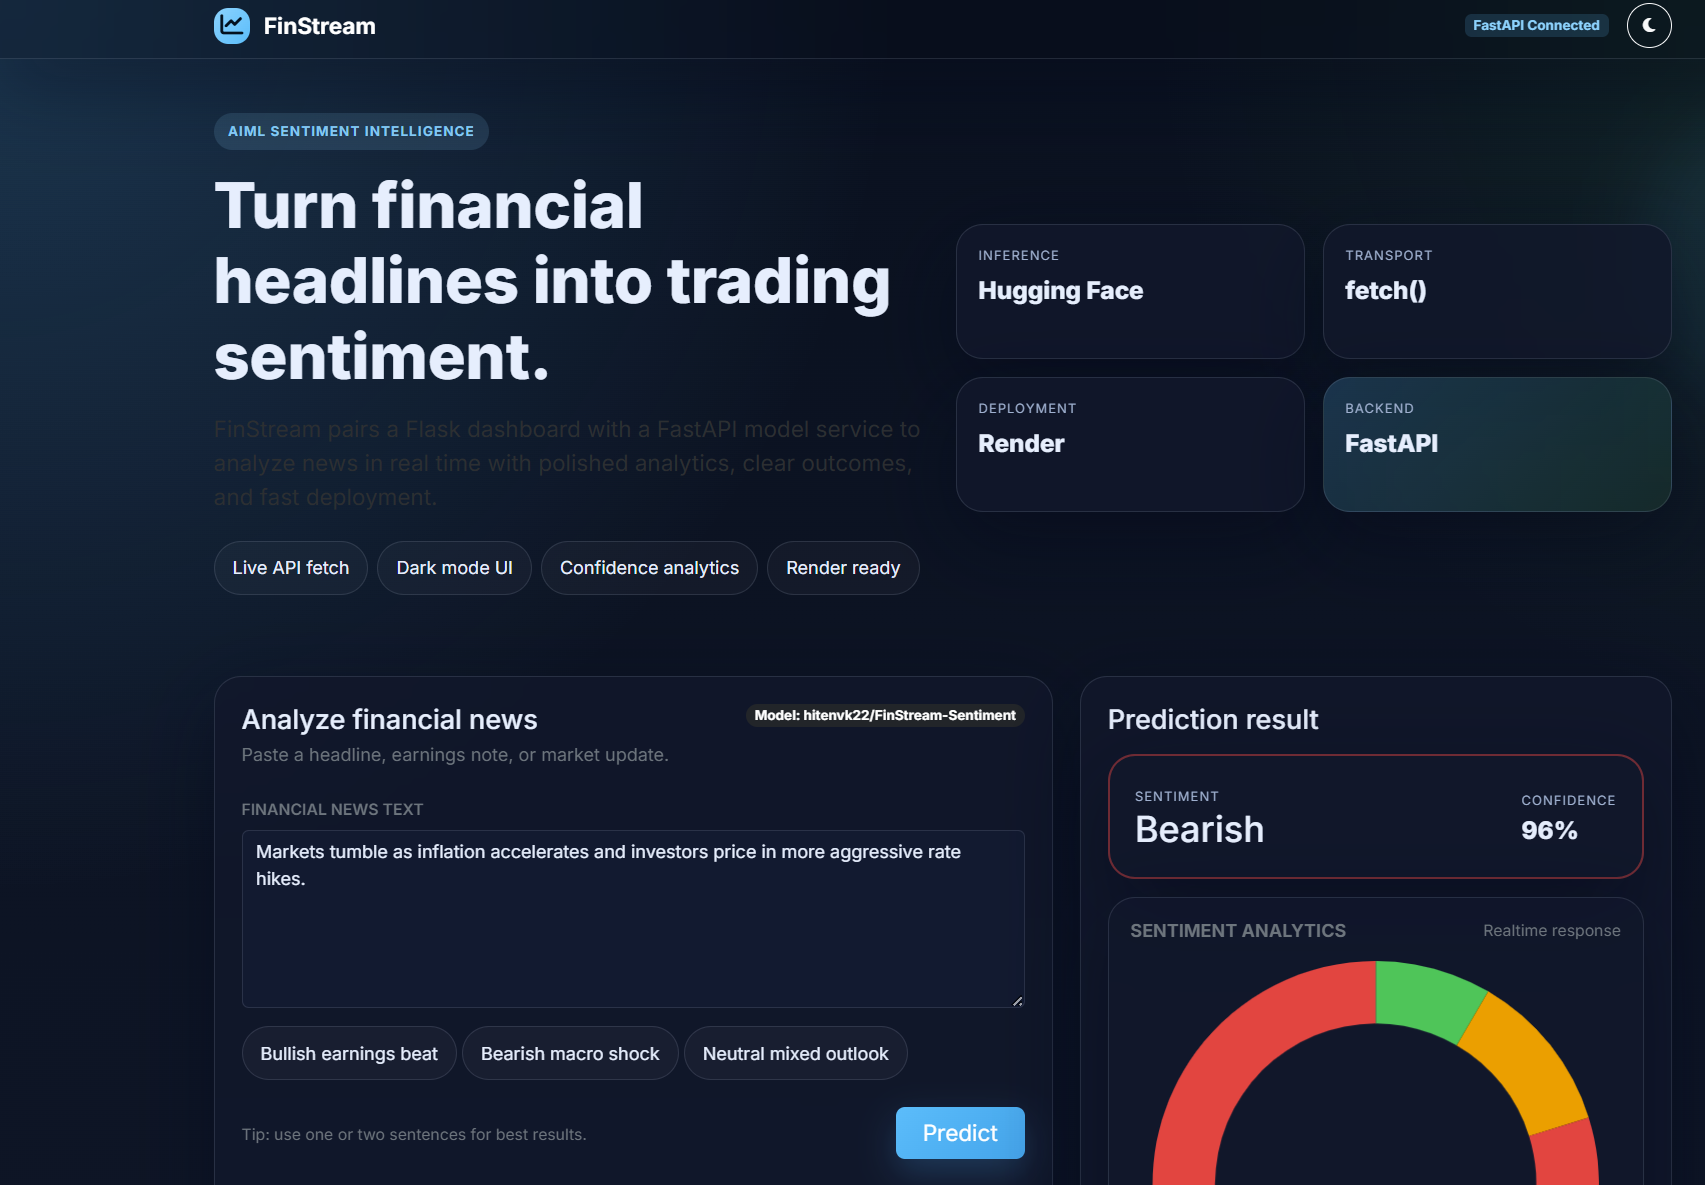
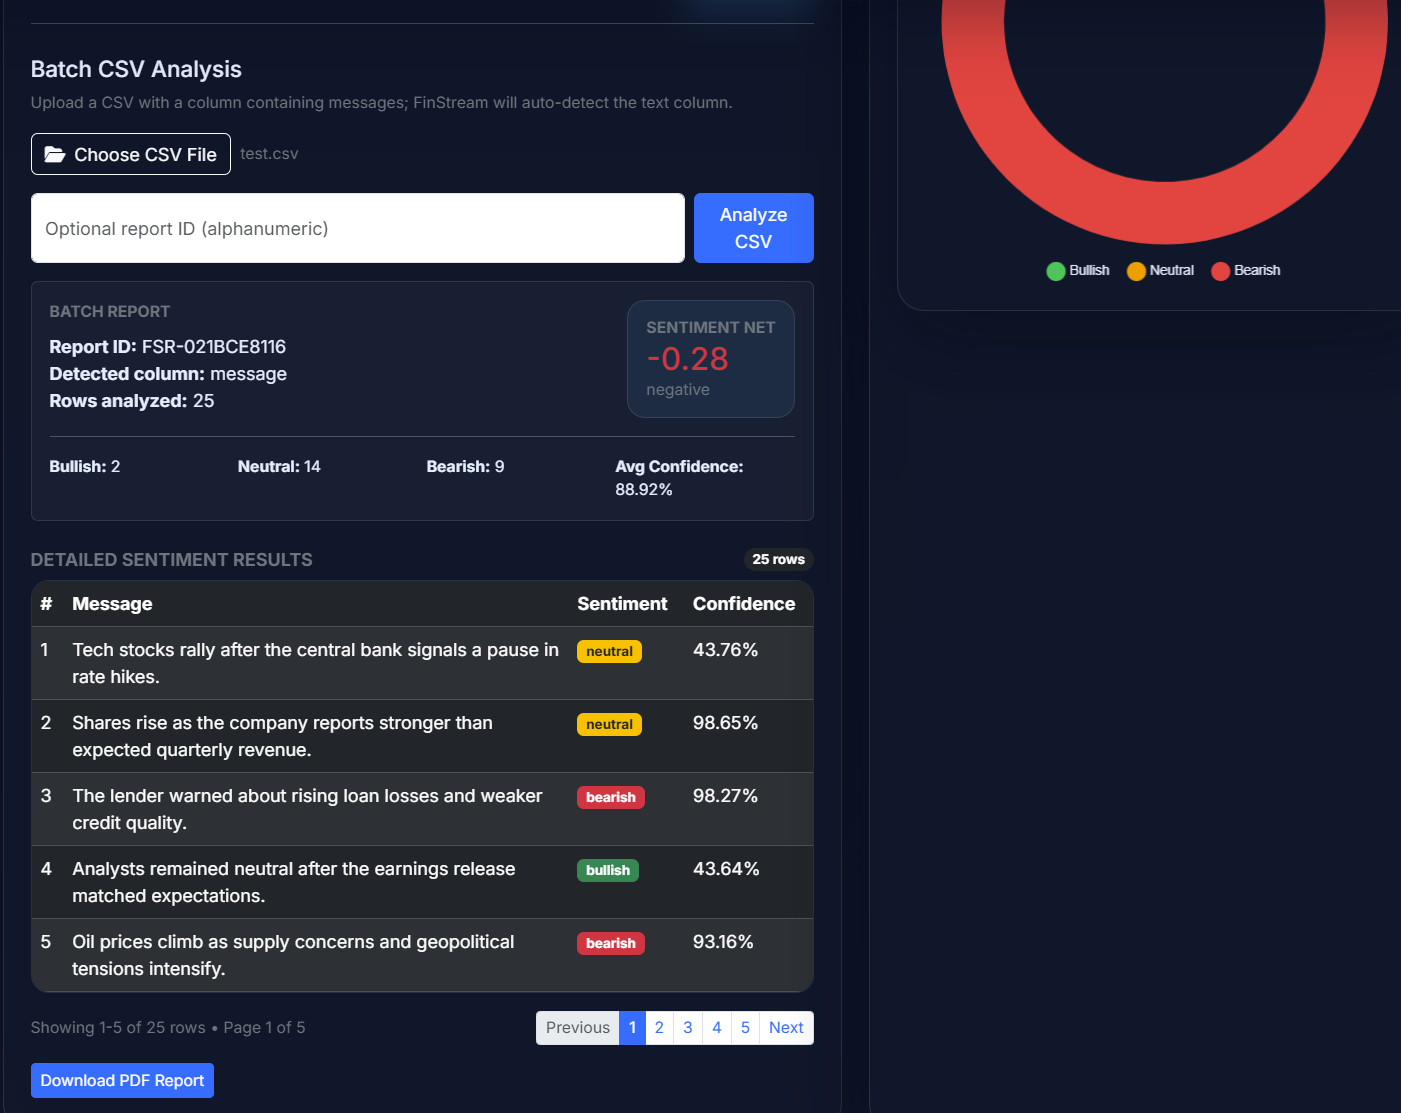
Update README with new screenshots and deploy blueprint

diff --git a/README.md b/README.md
@@ -102,6 +102,18 @@ This view shows the main sentiment form, the live FastAPI-connected prediction r
 
 This view is used for CSV upload testing, batch sentiment processing, report ID generation, and PDF report download. It demonstrates the batch workflow for message-wise sentiment analysis and sentiment net summary reporting.
 
+### Model Evaluation Snapshot
+
+![FinStream classification report screenshot](docs/screenshots/model_classification_metrics.png)
+
+This snapshot captures a notebook test-set result with 83.36% accuracy and a full classification report for bullish, neutral, and bearish labels.
+
+### Training History Snapshot
+
+![FinStream training history graph](docs/screenshots/model_convergence_graph.png)
+
+This plot shows training loss trending downward, validation loss stabilizing, and validation F1 / precision / recall converging across epochs.
+
 ## GIF Demo
 
 Add a short walkthrough GIF and embed it below:
@@ -219,46 +231,6 @@ Recommended workflow:
 - Run backend and frontend in separate integrated terminals.
 - Use notebook mode for evaluation experiments.
 
-## Render Deployment Guide
-
-Deploy with the root [render.yaml](render.yaml) blueprint for a one-click multi-service setup.
-
-### Blueprint deployment
-
-1. Connect your Git repository in Render.
-2. Choose "Blueprint" deployment and point Render to `render.yaml` at the repo root.
-3. Render creates both the backend and frontend web services.
-4. Add your secret `HF_TOKEN` when prompted during blueprint creation.
-
-### Services created by the blueprint
-
-### 1. Backend service (FastAPI)
-- Root directory: `backend`
-- Build command: `pip install -r requirements.txt`
-- Start command: `uvicorn backend.main:app --host 0.0.0.0 --port $PORT`
-- Health check: `/health`
-
-### 2. Frontend service (Flask)
-- Root directory: `frontend`
-- Build command: `pip install -r requirements.txt`
-- Start command: `gunicorn app:app --bind 0.0.0.0:$PORT`
-- Health check: `/health`
-- The blueprint injects `FASTAPI_BASE_URL` from the backend service host.
-
-Optional backend environment variables:
-- `HF_TOKEN`
-- `MODEL_NAME`
-- `LOG_LEVEL`
-- `CORS_ORIGINS`
-
-Local environment setup is described in [.env.example](.env.example).
-
-## API Documentation
-
-FastAPI auto-generates docs:
-- Swagger UI: `http://localhost:8000/docs`
-- ReDoc: `http://localhost:8000/redoc`
-
 ### Endpoints
 
 #### `GET /health`
@@ -314,6 +286,8 @@ Latest run (`evaluation/evaluate_model.py`) on 24 custom financial samples:
 | Recall (weighted) | 0.4583 |
 | F1-score (weighted) | 0.4386 |
 
+The notebook-based training screenshot above shows a separate test-set summary with 83.36% accuracy and the corresponding class-wise report.
+
 Generated artifacts:
 - `evaluation/results/metrics.json`
 - `evaluation/results/classification_report.txt`
@@ -332,17 +306,4 @@ Generated artifacts:
 - Add CI/CD workflows and automated regression tests.
 - Add role-based dashboard views and historical trend tracking.
 - Optimize latency with quantization or model distillation.
-
-## Contributors
-
-- Hiten (Project Owner)
-- Open to contributors via pull requests
-
-## License
-
-No license file is currently included. Add your preferred license (for example, MIT) in a `LICENSE` file before public distribution.
-
----
-
-### Built with ❤ for modern AI + finance portfolios
 
